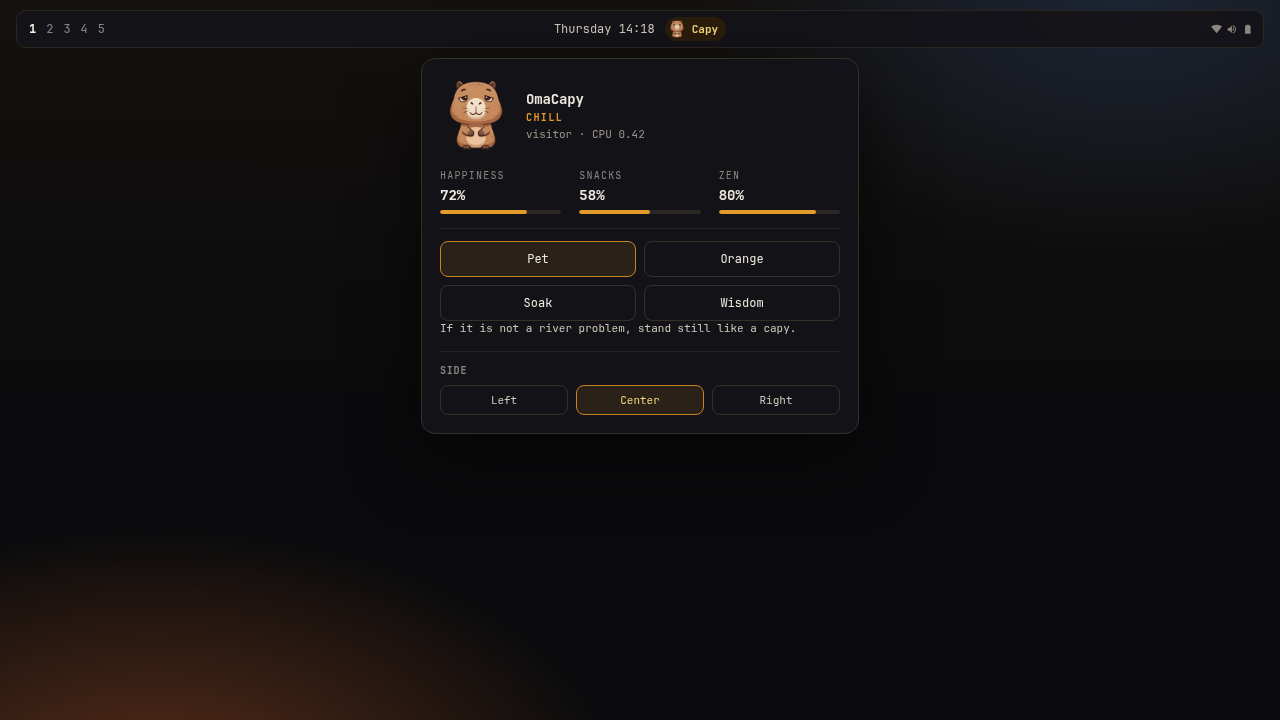
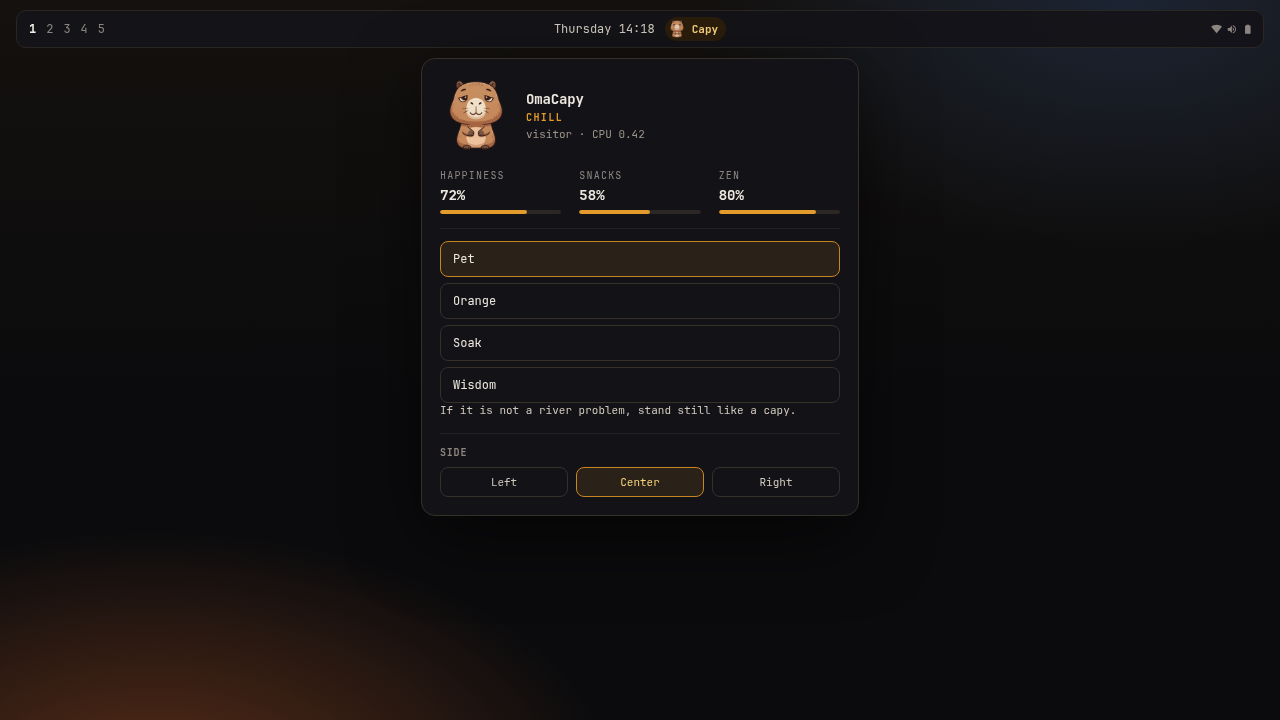
Stack Pet, Orange, Soak, and Wisdom in one column
The two-by-two row put Soak and Wisdom on top of the next block.

diff --git a/Panel.qml b/Panel.qml
@@ -512,58 +512,51 @@ Panel {
 
         Column {
           width: parent.width
-          spacing: Style.space(8)
+          spacing: Style.space(6)
 
-          Row {
+          Button {
             width: parent.width
-            spacing: Style.space(8)
-
-            Button {
-              width: (parent.width - parent.spacing) / 2
-              text: "Pet"
-              tooltipText: "The official hello"
-              foreground: root.fg
-              fontFamily: root.fontFamily
-              hasCursor: root.cursorActive && root.cursorIndex === 0
-              onHovered: function(on) { if (on) { root.cursorActive = true; root.cursorIndex = 0 } }
-              onClicked: root.doAction("pet")
-            }
-            Button {
-              width: (parent.width - parent.spacing) / 2
-              text: "Orange"
-              tooltipText: "Diplomatic citrus"
-              foreground: root.fg
-              fontFamily: root.fontFamily
-              hasCursor: root.cursorActive && root.cursorIndex === 1
-              onHovered: function(on) { if (on) { root.cursorActive = true; root.cursorIndex = 1 } }
-              onClicked: root.doAction("orange")
-            }
+            text: "Pet"
+            tooltipText: "The official hello"
+            leftAlign: true
+            foreground: root.fg
+            fontFamily: root.fontFamily
+            hasCursor: root.cursorActive && root.cursorIndex === 0
+            onHovered: function(on) { if (on) { root.cursorActive = true; root.cursorIndex = 0 } }
+            onClicked: root.doAction("pet")
           }
-
-          Row {
+          Button {
             width: parent.width
-            spacing: Style.space(8)
-
-            Button {
-              width: (parent.width - parent.spacing) / 2
-              text: "Soak"
-              tooltipText: "Send it to the river"
-              foreground: root.fg
-              fontFamily: root.fontFamily
-              hasCursor: root.cursorActive && root.cursorIndex === 2
-              onHovered: function(on) { if (on) { root.cursorActive = true; root.cursorIndex = 2 } }
-              onClicked: root.doAction("soak")
-            }
-            Button {
-              width: (parent.width - parent.spacing) / 2
-              text: "Wisdom"
-              tooltipText: "A one-liner"
-              foreground: root.fg
-              fontFamily: root.fontFamily
-              hasCursor: root.cursorActive && root.cursorIndex === 3
-              onHovered: function(on) { if (on) { root.cursorActive = true; root.cursorIndex = 3 } }
-              onClicked: root.doAction("wisdom")
-            }
+            text: "Orange"
+            tooltipText: "Diplomatic citrus"
+            leftAlign: true
+            foreground: root.fg
+            fontFamily: root.fontFamily
+            hasCursor: root.cursorActive && root.cursorIndex === 1
+            onHovered: function(on) { if (on) { root.cursorActive = true; root.cursorIndex = 1 } }
+            onClicked: root.doAction("orange")
+          }
+          Button {
+            width: parent.width
+            text: "Soak"
+            tooltipText: "Send it to the river"
+            leftAlign: true
+            foreground: root.fg
+            fontFamily: root.fontFamily
+            hasCursor: root.cursorActive && root.cursorIndex === 2
+            onHovered: function(on) { if (on) { root.cursorActive = true; root.cursorIndex = 2 } }
+            onClicked: root.doAction("soak")
+          }
+          Button {
+            width: parent.width
+            text: "Wisdom"
+            tooltipText: "A one-liner"
+            leftAlign: true
+            foreground: root.fg
+            fontFamily: root.fontFamily
+            hasCursor: root.cursorActive && root.cursorIndex === 3
+            onHovered: function(on) { if (on) { root.cursorActive = true; root.cursorIndex = 3 } }
+            onClicked: root.doAction("wisdom")
           }
         }
 

diff --git a/scripts/preview.html b/scripts/preview.html
@@ -72,9 +72,9 @@
       border-radius: 8px; border: 1px solid #353028; font-size: 11px; color: #cfc8bc;
     }
     .sides .on { background: #2a2218; border-color: #c98422; color: #f6d27a; }
-    .acts { display: grid; grid-template-columns: 1fr 1fr; gap: 8px; }
+    .acts { display: flex; flex-direction: column; gap: 6px; }
     .act {
-      height: 34px; display: grid; place-items: center;
+      height: 34px; display: flex; align-items: center; padding: 0 12px;
       border-radius: 8px; font-size: 12px; border: 1px solid #353028;
     }
     .act.sel { background: #2a2218; border-color: #c98422; }
